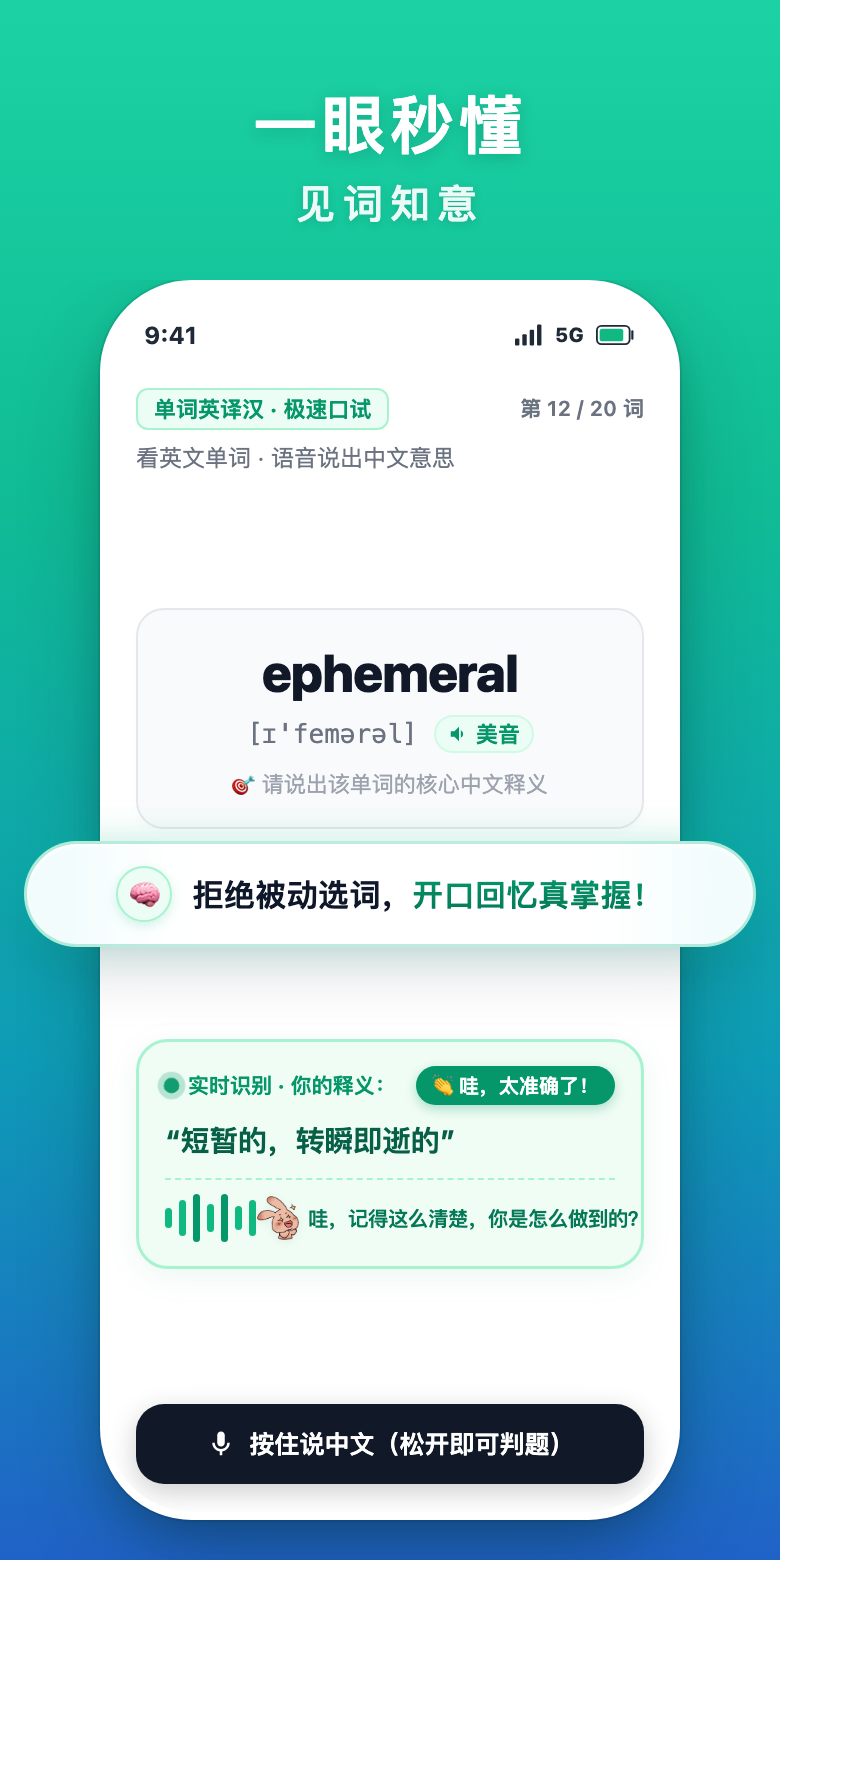
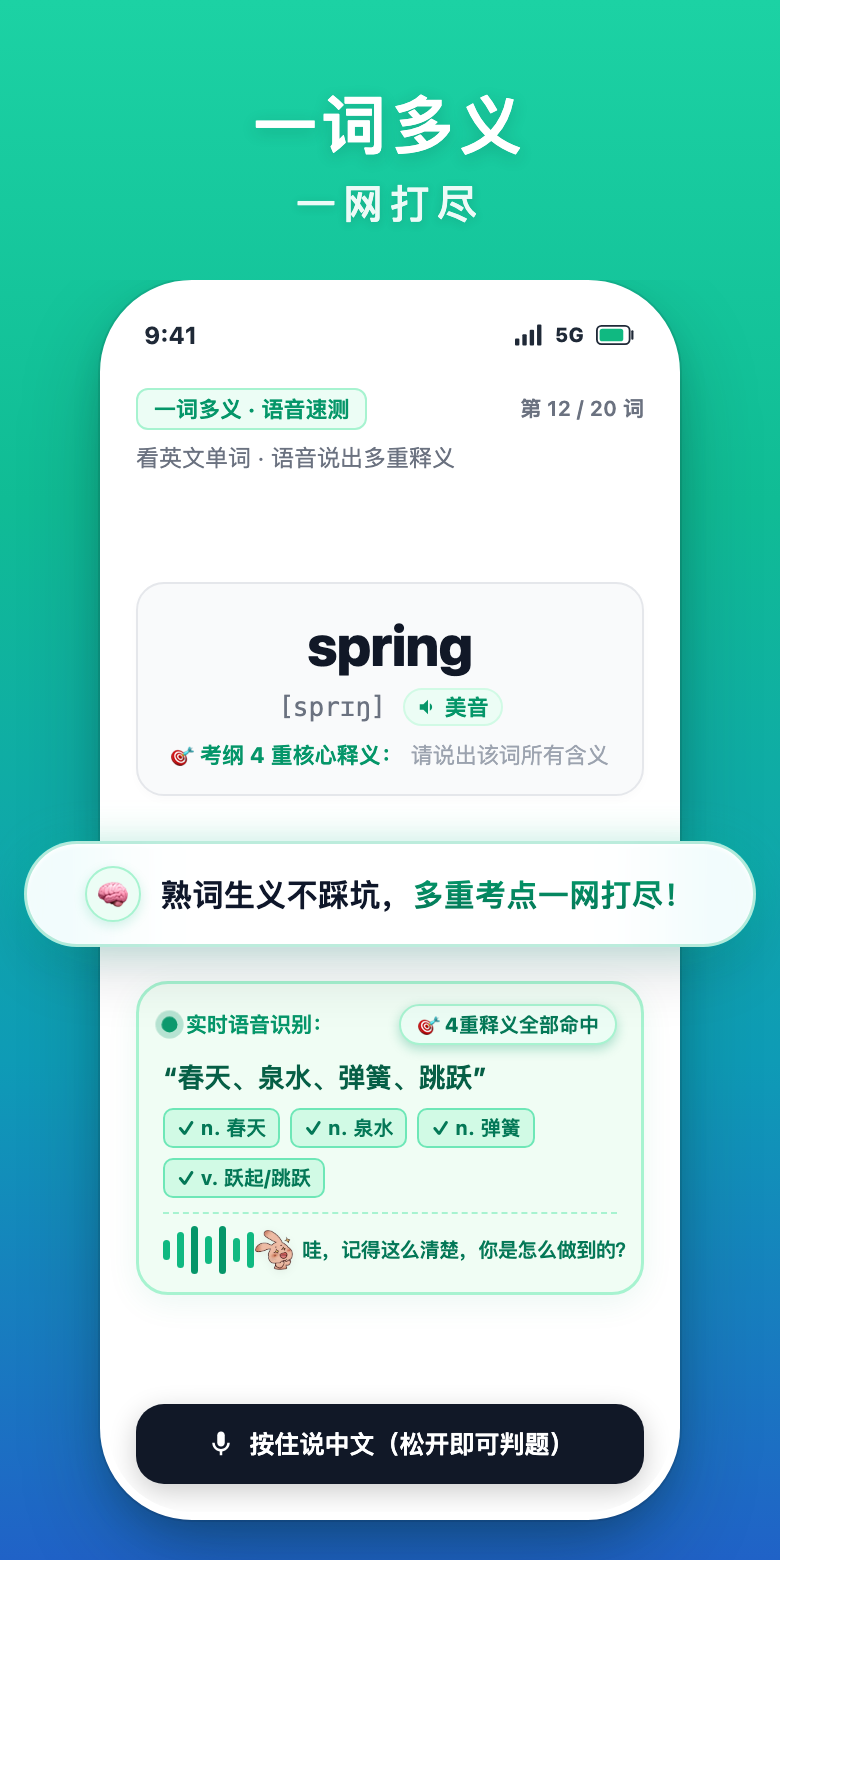
feat: update app store preview card 2 to showcase multiple word meanings

diff --git a/design/ui/app_store_minimal_clean_preview.html b/design/ui/app_store_minimal_clean_preview.html
@@ -1046,11 +1046,11 @@
         </div>
       </div>
 
-      <!-- 海报 2: 一眼秒懂 · 见词知意 -->
+      <!-- 海报 2: 一词多义 · 一网打尽 -->
       <div class="poster-card" id="card-2">
         <div class="poster-header">
-          <h2 class="p-title" id="p2-title">一眼秒懂</h2>
-          <div class="p-subtitle" id="p2-sub">见词知意</div>
+          <h2 class="p-title" id="p2-title">一词多义</h2>
+          <div class="p-subtitle" id="p2-sub">一网打尽</div>
         </div>
 
         <div class="poster-phone-stage">
@@ -1069,44 +1069,53 @@
               <div class="sentence-trans-stage">
                 <div>
                   <div style="display: flex; justify-content: space-between; align-items: center;">
-                    <span style="font-size: 11px; color: #059669; font-weight: 700; background: #ECFDF5; border: 1px solid #A7F3D0; padding: 2px 8px; border-radius: 6px;">单词英译汉 · 极速口试</span>
+                    <span style="font-size: 11px; color: #059669; font-weight: 700; background: #ECFDF5; border: 1px solid #A7F3D0; padding: 2px 8px; border-radius: 6px;">一词多义 · 语音速测</span>
                     <span style="font-size: 10.5px; color: #6B7280; font-weight: 600;">第 12 / 20 词</span>
                   </div>
-                  <div style="font-size: 11.5px; color: #6B7280; margin-top: 6px;">看英文单词 · 语音说出中文意思</div>
+                  <div style="font-size: 11.5px; color: #6B7280; margin-top: 6px;">看英文单词 · 语音说出多重释义</div>
                 </div>
 
-                <!-- 题目：核心英文单词 -->
-                <div class="sentence-quiz-card" style="text-align: center; padding: 16px 14px 14px;">
-                  <div style="font-size: 26px; font-weight: 800; color: #111827; letter-spacing: -0.5px; font-family: -apple-system, BlinkMacSystemFont, sans-serif;">
-                    ephemeral
+                <!-- 题目：核心英文单词（一词多义经典词 spring） -->
+                <div class="sentence-quiz-card" style="text-align: center; padding: 14px 14px 12px;">
+                  <div style="font-size: 28px; font-weight: 800; color: #111827; letter-spacing: -0.5px; font-family: -apple-system, BlinkMacSystemFont, sans-serif;">
+                    spring
                   </div>
-                  <div style="display: flex; align-items: center; justify-content: center; gap: 8px; margin-top: 6px;">
-                    <span style="font-size: 13px; color: #6B7280; font-family: ui-monospace, monospace;">[ɪ'femərəl]</span>
+                  <div style="display: flex; align-items: center; justify-content: center; gap: 8px; margin-top: 5px;">
+                    <span style="font-size: 13px; color: #6B7280; font-family: ui-monospace, monospace;">[sprɪŋ]</span>
                     <div style="display: inline-flex; align-items: center; gap: 3px; color: #059669; font-size: 11px; font-weight: 700; background: #ECFDF5; border: 1px solid #D1FAE5; padding: 1px 6px; border-radius: 100px;">
                       <svg width="11" height="11" viewBox="0 0 24 24" fill="currentColor"><path d="M3 9v6h4l5 5V4L7 9H3zm13.5 3c0-1.77-1.02-3.29-2.5-4.03v8.05c1.48-.73 2.5-2.25 2.5-4.02z"/></svg>
                       <span>美音</span>
                     </div>
                   </div>
-                  <div style="font-size: 11px; color: #9CA3AF; margin-top: 8px;">
-                    🎯 请说出该单词的核心中文释义
+                  <div style="font-size: 11px; color: #6B7280; margin-top: 7px; display: flex; align-items: center; justify-content: center; gap: 4px;">
+                    <span style="color: #059669; font-weight: 700;">🎯 考纲 4 重核心释义：</span>
+                    <span style="color: #9CA3AF;">请说出该词所有含义</span>
                   </div>
                 </div>
 
                 <!-- 语音作答与识别出的中文释义 -->
-                <div class="sentence-asr-result-card">
+                <div class="sentence-asr-result-card" style="padding: 10px 12px 9px;">
                   <div style="display: flex; justify-content: space-between; align-items: center;">
                     <div style="display: flex; align-items: center; gap: 5px;">
                       <span class="asr-live-dot"></span>
-                      <span style="font-size: 10.5px; color: #059669; font-weight: 700;">实时识别 · 你的释义：</span>
+                      <span style="font-size: 10.5px; color: #059669; font-weight: 700;">实时语音识别：</span>
                     </div>
-                    <span class="score-badge">👏 哇，太准确了！</span>
+                    <span class="score-badge" style="background: #ECFDF5; color: #047857; border: 1px solid #A7F3D0; font-weight: 800; white-space: nowrap; font-size: 10px; padding: 2px 8px;">🎯 4重释义全部命中</span>
                   </div>
 
-                  <div class="user-speech-text" style="font-size: 14.5px; font-weight: 700; color: #065F46; margin: 7px 0 5px;">
-                    “短暂的，转瞬即逝的”
+                  <div class="user-speech-text" style="font-size: 13.5px; font-weight: 700; color: #065F46; margin: 6px 0 5px;">
+                    “春天、泉水、弹簧、跳跃”
                   </div>
 
-                  <div style="display: flex; align-items: center; justify-content: space-between; margin-top: 8px; padding-top: 7px; border-top: 1px dashed #A7F3D0;">
+                  <!-- 4重释义一网打尽点亮标签 -->
+                  <div style="display: flex; flex-wrap: wrap; gap: 5px; margin-bottom: 7px;">
+                    <span style="font-size: 10px; font-weight: 700; color: #047857; background: #D1FAE5; border: 1px solid #6EE7B7; padding: 2px 6px; border-radius: 5px;">✓ n. 春天</span>
+                    <span style="font-size: 10px; font-weight: 700; color: #047857; background: #D1FAE5; border: 1px solid #6EE7B7; padding: 2px 6px; border-radius: 5px;">✓ n. 泉水</span>
+                    <span style="font-size: 10px; font-weight: 700; color: #047857; background: #D1FAE5; border: 1px solid #6EE7B7; padding: 2px 6px; border-radius: 5px;">✓ n. 弹簧</span>
+                    <span style="font-size: 10px; font-weight: 700; color: #047857; background: #D1FAE5; border: 1px solid #6EE7B7; padding: 2px 6px; border-radius: 5px;">✓ v. 跃起/跳跃</span>
+                  </div>
+
+                  <div style="display: flex; align-items: center; justify-content: space-between; padding-top: 6px; border-top: 1px dashed #A7F3D0;">
                     <div class="wave-bars">
                       <div class="wave-bar" style="height: 10px;"></div>
                       <div class="wave-bar" style="height: 18px;"></div>
@@ -1117,8 +1126,8 @@
                       <div class="wave-bar" style="height: 18px;"></div>
                     </div>
                     <div style="display: flex; align-items: center; gap: 4px;">
-                      <img src="assets/rabbit_surprise.png" style="width: 22px; height: 22px; object-fit: contain; flex-shrink: 0; filter: drop-shadow(0 1px 2px rgba(0,0,0,0.06));" alt="惊喜" />
-                      <span style="font-size: 10.2px; color: #047857; font-weight: 800; letter-spacing: -0.2px; white-space: nowrap;">哇，记得这么清楚，你是怎么做到的？</span>
+                      <img src="assets/rabbit_surprise.png" style="width: 20px; height: 20px; object-fit: contain; flex-shrink: 0; filter: drop-shadow(0 1px 2px rgba(0,0,0,0.06));" alt="惊喜" />
+                      <span style="font-size: 10px; color: #047857; font-weight: 800; letter-spacing: -0.2px; white-space: nowrap;">哇，记得这么清楚，你是怎么做到的？</span>
                     </div>
                   </div>
                 </div>
@@ -1136,7 +1145,7 @@
           <!-- 中央直击人心大横幅 02 -->
           <div class="impact-banner">
             <span class="banner-badge">🧠</span>
-            <span class="banner-text">拒绝被动选词，<span class="highlight">开口回忆真掌握！</span></span>
+            <span class="banner-text">熟词生义不踩坑，<span class="highlight">多重考点一网打尽！</span></span>
           </div>
         </div>
       </div>
@@ -1607,7 +1616,7 @@
     const copyPresets = {
       a: {
         p1Title: "脱口而出", p1Sub: "成就拉满",
-        p2Title: "一眼秒懂", p2Sub: "见词知意",
+        p2Title: "一词多义", p2Sub: "一网打尽",
         p3Title: "语音答题", p3Sub: "开口成诵",
         p4Title: "真迹默写", p4Sub: "落笔生根",
         p5Title: "临界重温", p5Sub: "精准唤醒",
